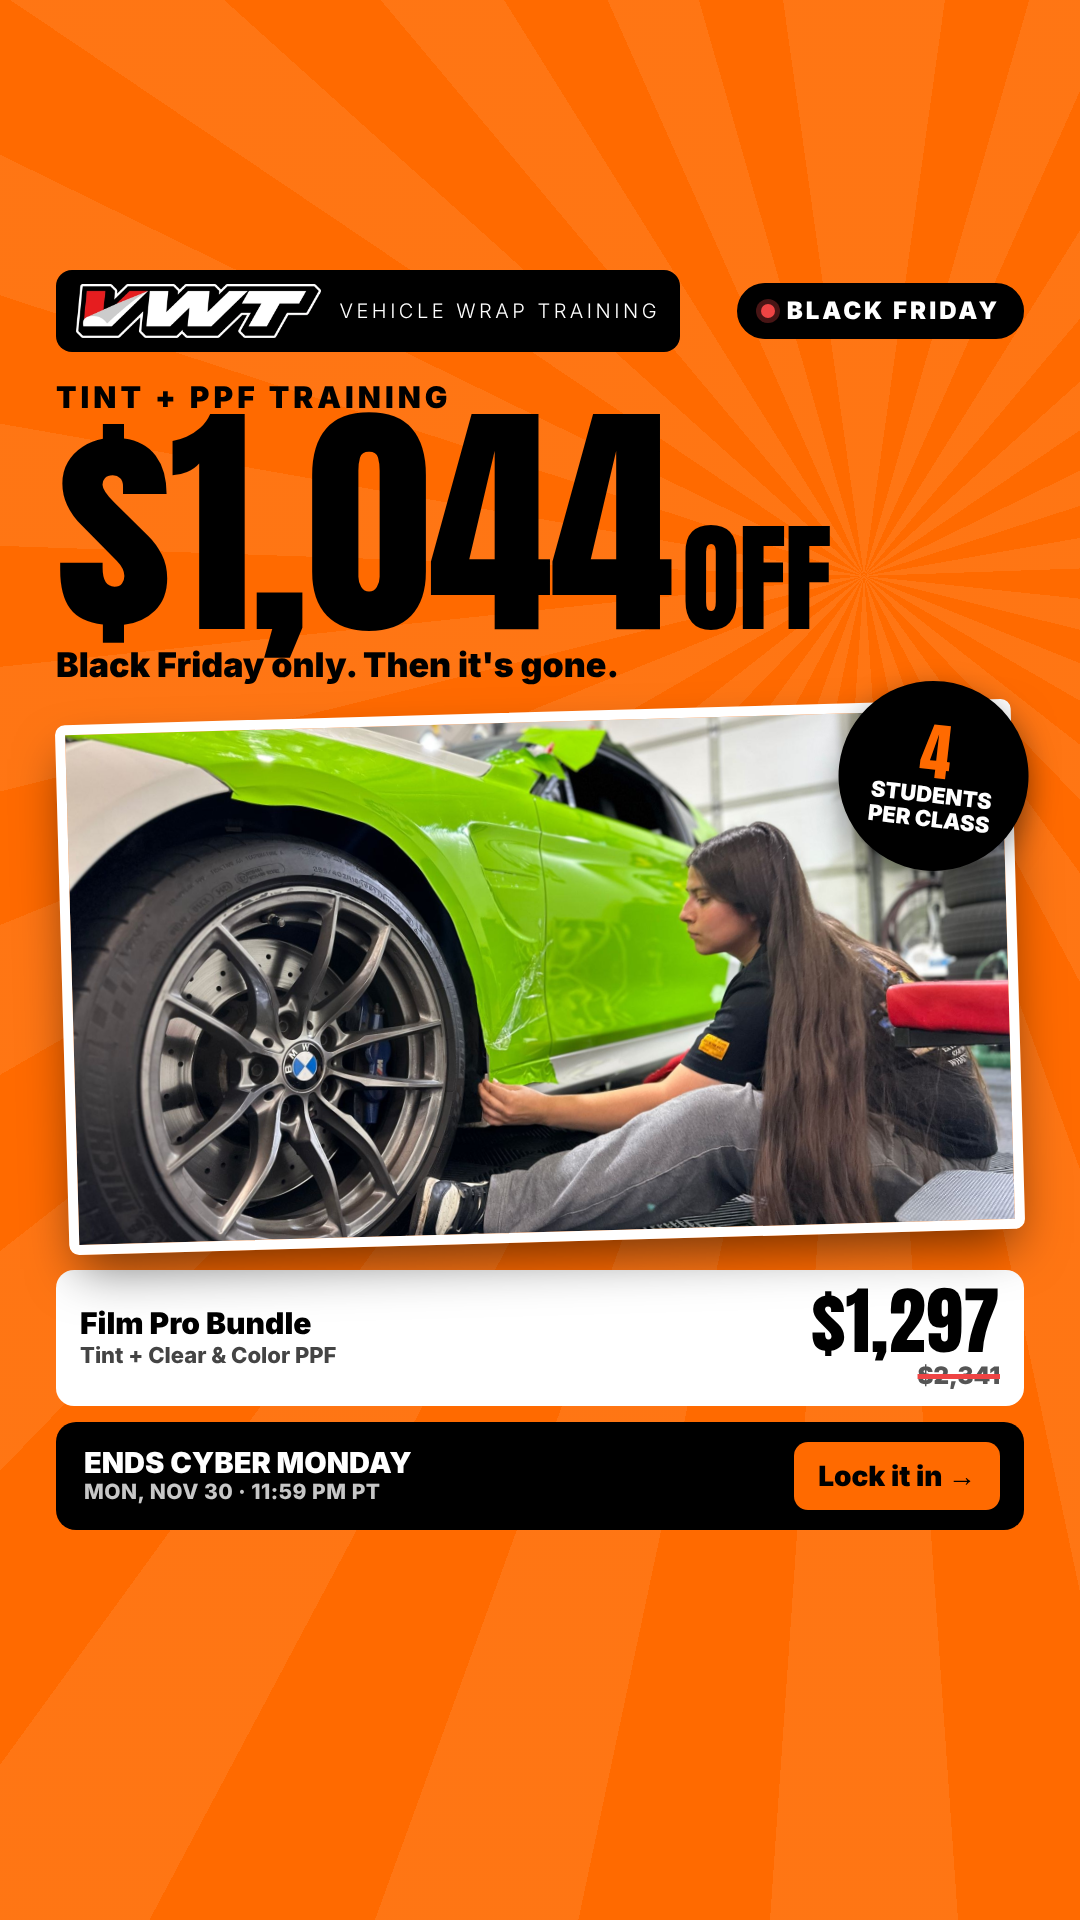
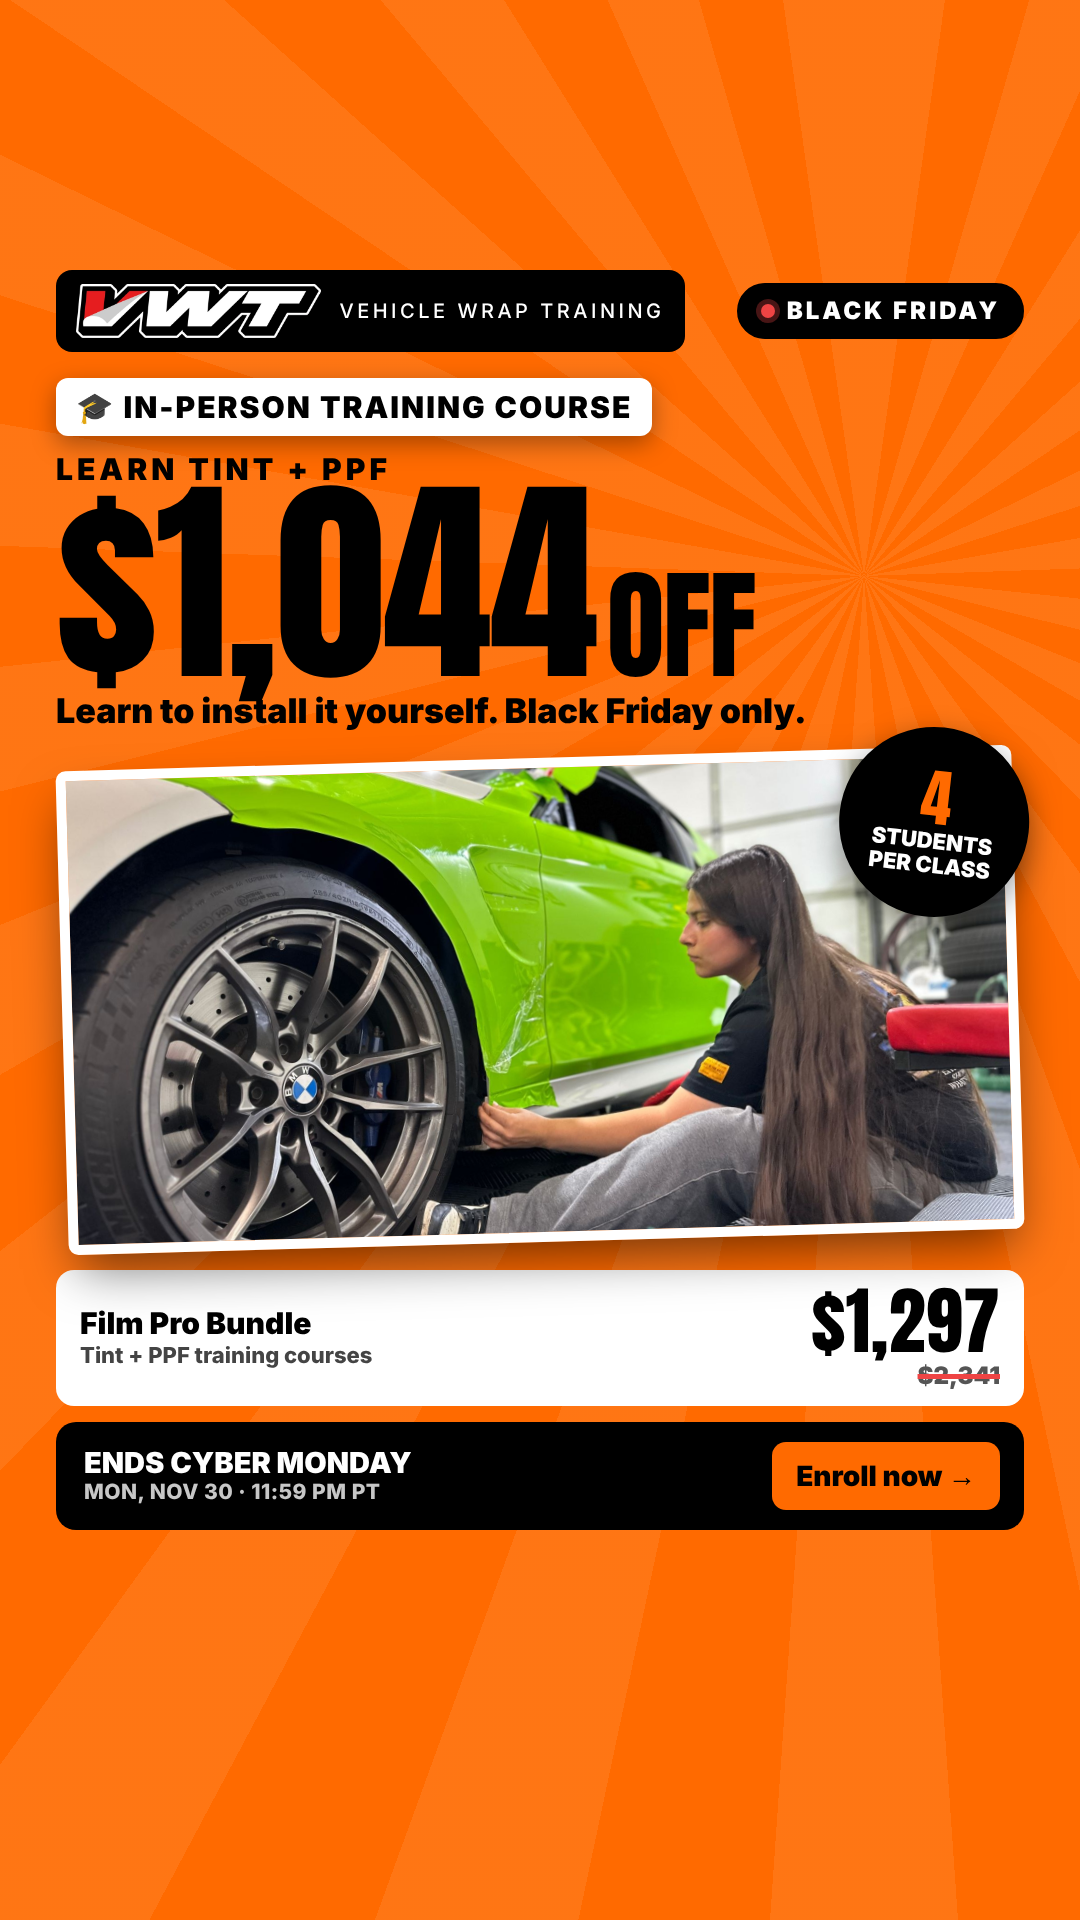
Ads: make it clear these are in-person training courses; bolder wordmark
Claude-Session: https://claude.ai/code/session_01DTKvV1fAQqsJqB6peNHdGx

Changed region(s): [[0.0306, 0.1562, 0.9778, 0.6562], [0.1528, 0.6875, 0.3361, 0.7188], [0.7028, 0.75, 0.8556, 0.7812]]

diff --git a/ads/src/ad2.html b/ads/src/ad2.html
@@ -1,7 +1,7 @@
 <!doctype html>
 <html><head><meta charset="utf-8">
 <!-- Black Friday Instagram ads, set 2. Open with ?ad=1..6&fmt=feed|story (&last=1 for the Nov 30 "ends tonight" version) and screenshot the .ad frame. -->
-<link href="https://fonts.googleapis.com/css2?family=Anton&family=Inter:wght@300;600;800;900&display=swap" rel="stylesheet">
+<link href="https://fonts.googleapis.com/css2?family=Anton&family=Inter:wght@300;500;600;800;900&display=swap" rel="stylesheet">
 <style>
 :root{--o:#ff6a00;--o2:#ff9a3c;--g:#22c55e;--gold:#ffc44d;--r:#ef4444;--bg:#0d0d0f;--muted:#c4c4cc}
 *{box-sizing:border-box;margin:0;padding:0}
@@ -28,7 +28,8 @@ s{text-decoration-color:var(--r);text-decoration-thickness:5px}
 .bar.red{background:var(--r);color:#fff}.bar.red .cta{background:#fff;color:#000}
 /* 1: pro map */
 .a1 .layer{background:linear-gradient(180deg,rgba(0,0,0,.55) 0%,rgba(0,0,0,0) 22%,rgba(0,0,0,0) 46%,rgba(0,0,0,.85) 66%,#000 100%)}
-.a1 h1{margin-top:34px;font-size:118px}
+.a1 h1{font-size:118px}
+.a1 .stack>div:nth-child(2){margin-top:30px}
 .a1 h1 span{display:inline-block;background:#000;padding:10px 20px 4px;margin-bottom:8px}
 .a1 h1 .o{color:var(--o)}
 .a1 .card{background:rgba(16,16,19,.94);border:2px solid rgba(255,255,255,.14);border-radius:22px;padding:24px 28px;margin-bottom:20px}
@@ -77,8 +78,8 @@ s{text-decoration-color:var(--r);text-decoration-thickness:5px}
 /* 4: big number on orange */
 .a4{background:var(--o);color:#000}
 .a4 .burst{position:absolute;inset:0;background:repeating-conic-gradient(from 0deg at 80% 30%,rgba(255,255,255,.08) 0deg 8deg,rgba(255,255,255,0) 8deg 16deg)}
-.a4 .k{font:900 30px/1 Inter;letter-spacing:4px;text-transform:uppercase;margin:30px 0 4px}
-.a4 .big{font-size:250px;line-height:.86;letter-spacing:-2px}
+.a4 .k{font:900 30px/1 Inter;letter-spacing:4px;text-transform:uppercase;margin:18px 0 4px}
+.a4 .big{font-size:220px;line-height:.86;letter-spacing:-2px}
 .a4 .big small{font-size:120px;margin-left:10px}
 .a4 .sub{font:900 34px/1.2 Inter;margin:14px 0 26px}
 .a4 .frame{position:relative;flex:1;min-height:0;border:10px solid #fff;border-radius:10px;background-size:cover;background-position:var(--pos);transform:rotate(-1.6deg);box-shadow:0 24px 50px -10px rgba(0,0,0,.55);margin:0 6px 28px}
@@ -93,7 +94,7 @@ s{text-decoration-color:var(--r);text-decoration-thickness:5px}
 /* 5: four seats */
 .a5 .photo{position:absolute;left:0;right:0;top:0;height:var(--ph);background-size:cover;background-position:var(--pos)}
 .a5 .photo::after{content:"";position:absolute;inset:0;background:linear-gradient(180deg,rgba(0,0,0,.5) 0%,rgba(0,0,0,0) 25%,rgba(0,0,0,.1) 55%,var(--bg) 100%)}
-.a5 h1{font-size:128px;margin-bottom:22px}
+.a5 h1{font-size:108px;margin-bottom:22px}
 .a5 h1 .o{color:var(--o)}
 .seats{display:grid;grid-template-columns:repeat(4,1fr);gap:14px;margin-bottom:22px}
 .seat{background:#18181c;border:2px solid var(--o);border-radius:18px;padding:16px 0 12px;text-align:center}
@@ -122,8 +123,9 @@ s{text-decoration-color:var(--r);text-decoration-thickness:5px}
 .a6 .li span b{font-family:Anton;font-weight:400;font-size:52px;color:#ffc400;margin-left:12px}
 .a6 .li s{font:800 24px/1 Inter;color:#9a9aa3;text-decoration-thickness:3px}
 .brand{display:inline-flex;align-items:center;gap:18px}
-.bname{font:300 20px/1 Inter,sans-serif;letter-spacing:3.5px;text-transform:uppercase;color:#fff;white-space:nowrap;text-shadow:0 0 8px rgba(0,0,0,.9),0 1px 3px rgba(0,0,0,.9)}
+.bname{font:500 20px/1 Inter,sans-serif;letter-spacing:3.5px;text-transform:uppercase;color:#fff;white-space:nowrap;text-shadow:0 0 8px rgba(0,0,0,.9),0 1px 3px rgba(0,0,0,.9)}
 .topfade{position:absolute;left:0;right:0;top:0;background:linear-gradient(180deg,rgba(0,0,0,.72),rgba(0,0,0,.45) 60%,rgba(0,0,0,0));pointer-events:none}
+.course{display:inline-flex;align-items:center;gap:10px;background:#fff;color:#000;font:900 30px/1 Inter,sans-serif;letter-spacing:2px;text-transform:uppercase;padding:14px 20px;border-radius:12px;margin-bottom:18px;box-shadow:0 8px 24px rgba(0,0,0,.35)}
 </style></head><body>
 <div id="root"></div>
 <script>
@@ -143,28 +145,30 @@ const T={
 // 1. The pro's panel map
 '1':()=>wrap(1,`<div class="bgimg" style="background-image:url(${img('layout-map-mercedes')});--pos:${S?'63% 50%':'58% 50%'}"></div><div class="layer"></div>
  <div class="stack">${TOPROW}
-  <h1 class="H"><span>This is how</span><br><span><i class="o" style="font-style:normal">pros</i> plan</span><br><span>every panel.</span></h1>
+  <div><span class="course">🎓 In-person training course</span></div>
+  <h1 class="H"><span>Learn how</span><br><span><i class="o" style="font-style:normal">pros</i> plan</span><br><span>every panel.</span></h1>
   <div class="grow"></div>
-  <div class="card"><p>Learn it hands-on from a <b>16-year pro</b>. Tint + PPF, max 4 students per class.</p>
+  <div class="card"><p>Tint + PPF training courses taught by a <b>16-year pro</b>. Max 4 students per class.</p>
    <div class="pr"><span class="now H">$1,297</span><span class="was">Reg. <s>$2,341</s></span><span class="save">Save $1,044</span></div></div>
   ${bar('Claim my seat')}
  </div>`),
 // 2. Black Friday pass (ticket)
 '2':()=>wrap(2,`<div class="photo" style="background-image:url(${img('ppf-two-students-vwt-wall')});--pos:${S?'40% 50%':'50% 45%'}"></div>
  <div class="stack">${TOPROW}<div class="grow"></div>
-  <h1 class="H">Your Black Friday<br><span class="o">pass is here.</span></h1>
+  <div><span class="course">🎓 In-person training course</span></div>
+  <h1 class="H">Your seat in class<br><span class="o">is 45% off.</span></h1>
   <div class="ticket"><div class="stub"><span>ADMIT ONE</span></div>
-   <div class="main"><div class="k">Film Pro Bundle</div><div class="n">Window Tint + Clear &amp; Color PPF</div>
+   <div class="main"><div class="k">Film Pro Bundle · 2 courses</div><div class="n">Window Tint + PPF Training</div>
     <div class="row"><span class="now H">$1,297</span><span class="was">Reg. <s>$2,341</s></span></div></div>
    <div class="off"><b>45%</b><small>OFF</small></div></div>
   <p class="fine"><b>Only 4 students per class.</b> Lock in the price now, train on any date through 2027.</p>
-  ${bar('Get my pass')}
+  ${bar('Save my seat')}
  </div>`,`--ph:${S?1150:760}px`),
 // 3. Tint in 2 days
 '3':()=>wrap(3,`<div class="bgimg" style="background-image:url(${img('tint-heat-shrink')});--pos:${S?'62% 50%':'60% 40%'}"></div><div class="layer"></div>
  <div class="ribbon" style="--rt:${S?PT+190:230}px">SAVE $398</div>
  <div class="stack">${TOPROW}<div class="grow"></div>
-  <div><span class="kick">2-Day Window Tint Course</span></div>
+  <div><span class="course">🎓 2-day in-person tint course</span></div>
   <h1 class="H">Learn tint<br>in <span class="o">2 days.</span></h1>
   <div class="pr"><span class="now H">$497</span><span class="was">Reg. <s>$895</s><b>Black Friday price</b></span></div>
   <div class="checks"><span>Hands-on, real cars</span><span>Max 4 students</span><span>16-year pro</span></div>
@@ -173,37 +177,40 @@ const T={
 // 4. Big number, orange
 '4':()=>wrap(4,`<div class="burst"></div>
  <div class="stack"><div class="toprow"><span class="logo-pill brand"><img class="logo" src="${L}" alt="VWT"><span class="bname" style="text-shadow:none">Vehicle Wrap Training</span></span><span class="tag" style="border-color:#000"><i></i>${LAST?'Last day':'Black Friday'}</span></div>
-  <div class="k">Tint + PPF training</div>
+  <div><span class="course" style="margin:26px 0 0">🎓 In-person training course</span></div>
+  <div class="k">Learn tint + PPF</div>
   <div class="big H">$1,044<small>off</small></div>
-  <div class="sub">Black Friday only. Then it's gone.</div>
+  <div class="sub">Learn to install it yourself. Black Friday only.</div>
   <div class="frame" style="background-image:url(${img('student-green-bmw-fender')});--pos:${S?'62% 50%':'60% 50%'}"><div class="stk"><b>4</b>students<br>per class</div></div>
-  <div class="deal"><div class="n">Film Pro Bundle<small>Tint + Clear &amp; Color PPF</small></div><div class="p"><b class="H">$1,297</b><s>$2,341</s></div></div>
-  ${bar('Lock it in','inv')}
+  <div class="deal"><div class="n">Film Pro Bundle<small>Tint + PPF training courses</small></div><div class="p"><b class="H">$1,297</b><s>$2,341</s></div></div>
+  ${bar('Enroll now','inv')}
  </div>`),
 // 5. Four seats
 '5':()=>{const chair='<svg viewBox="0 0 24 24"><path d="M7 3h10a1 1 0 011 1v7H6V4a1 1 0 011-1zm-3 9h16a1 1 0 011 1v2a1 1 0 01-1 1h-1v5h-2v-5H7v5H5v-5H4a1 1 0 01-1-1v-2a1 1 0 011-1z"/></svg>';
  return wrap(5,`<div class="photo" style="background-image:url(${img('instructor-green-bmw-quarter')});--pos:${S?'38% 50%':'50% 40%'}"></div>
  <div class="stack">${TOPROW}<div class="grow"></div>
-  <h1 class="H">4 seats.<br><span class="o">That's it.</span></h1>
+  <div><span class="course">🎓 In-person training course</span></div>
+  <h1 class="H">4 seats per class.<br><span class="o">That's it.</span></h1>
   <div class="seats">${[1,2,3,4].map(i=>`<div class="seat">${chair}<div>SEAT ${i}</div></div>`).join('')}</div>
   <p class="copy">Every class is capped at 4 students, so you get <b>real one-on-one time</b> with a 16-year pro.</p>
-  <div class="prices"><div><small>Tint · 2 days</small><b>$497</b><s>$895</s></div><div><small>PPF · 3 days</small><b>$997</b><s>$1,446</s></div><div class="best"><small>Bundle · both</small><b>$1,297</b></div></div>
+  <div class="prices"><div><small>Tint course · 2 days</small><b>$497</b><s>$895</s></div><div><small>PPF course · 3 days</small><b>$997</b><s>$1,446</s></div><div class="best"><small>Both courses</small><b>$1,297</b></div></div>
   ${bar('Grab a seat')}
  </div>`,`--ph:${S?1100:720}px`)},
 // 6. Last call
 '6':()=>wrap(6,`<div class="bgimg" style="background-image:url(${img('student-green-bmw-fender')});--pos:${S?'60% 50%':'55% 50%'}"></div><div class="layer"></div>
  <div class="stack">${TOPROW}
   <div class="grow"></div>
+  <div><span class="course">🎓 In-person training course</span></div>
   <div class="tape t1"></div>
   <h1 class="H">${LAST?'Last <span class="y">day.</span>':'Don\'t miss<br><span class="y">this.</span>'}</h1>
   <div class="tape t2"></div>
-  <p class="copy">Black Friday prices end <b>${LAST?'tonight at 11:59 PM PT':'Monday, Nov 30 at 11:59 PM PT'}</b>. After that, prices go back up.</p>
+  <p class="copy">Black Friday prices on our hands-on training courses end <b>${LAST?'tonight at 11:59 PM PT':'Monday, Nov 30 at 11:59 PM PT'}</b>. After that, prices go back up.</p>
   <div class="list">
-   <div class="li">Window Tint<span><s>$895</s><b>$497</b></span></div>
-   <div class="li">Clear &amp; Color PPF<span><s>$1,446</s><b>$997</b></span></div>
-   <div class="li">Tint + PPF Bundle<span><s>$2,341</s><b>$1,297</b></span></div>
+   <div class="li">Window Tint Course<span><s>$895</s><b>$497</b></span></div>
+   <div class="li">Clear &amp; Color PPF Course<span><s>$1,446</s><b>$997</b></span></div>
+   <div class="li">Tint + PPF Course Bundle<span><s>$2,341</s><b>$1,297</b></span></div>
   </div>
-  ${bar(LAST?'Book before midnight':'Book now','red')}
+  ${bar(LAST?'Enroll before midnight':'Enroll now','red')}
  </div>`)
 };
 document.getElementById('root').innerHTML=T[ad]();

diff --git a/ads/src/ad.html b/ads/src/ad.html
@@ -1,6 +1,6 @@
 <!doctype html>
 <html><head><meta charset="utf-8">
-<link href="https://fonts.googleapis.com/css2?family=Anton&family=Inter:wght@300;600;800;900&display=swap" rel="stylesheet">
+<link href="https://fonts.googleapis.com/css2?family=Anton&family=Inter:wght@300;500;600;800;900&display=swap" rel="stylesheet">
 <style>
 :root{--orange:#ff6a00;--orange2:#ff9a3c;--green:#22c55e;--gold:#ffc44d;--red:#ef4444;--bg:#0d0d0f}
 *{box-sizing:border-box;margin:0;padding:0}
@@ -73,8 +73,9 @@ s{text-decoration-color:var(--red);text-decoration-thickness:4px}
 .a3 .deal .t{font:900 30px/1.2 Inter;text-transform:uppercase}
 .a3 .deal .t small{display:block;font:800 24px/1.3 Inter;text-transform:none;color:#b4b4bd}
 .brand{display:inline-flex;align-items:center;gap:18px}
-.bname{font:300 20px/1 Inter,sans-serif;letter-spacing:3.5px;text-transform:uppercase;color:#fff;white-space:nowrap;text-shadow:0 0 8px rgba(0,0,0,.9),0 1px 3px rgba(0,0,0,.9)}
+.bname{font:500 20px/1 Inter,sans-serif;letter-spacing:3.5px;text-transform:uppercase;color:#fff;white-space:nowrap;text-shadow:0 0 8px rgba(0,0,0,.9),0 1px 3px rgba(0,0,0,.9)}
 .topfade{position:absolute;left:0;right:0;top:0;background:linear-gradient(180deg,rgba(0,0,0,.72),rgba(0,0,0,.45) 60%,rgba(0,0,0,0));pointer-events:none}
+.course{display:inline-flex;align-items:center;gap:10px;background:#fff;color:#000;font:900 30px/1 Inter,sans-serif;letter-spacing:2px;text-transform:uppercase;padding:14px 20px;border-radius:12px;margin-bottom:18px;box-shadow:0 8px 24px rgba(0,0,0,.35)}
 </style></head><body>
 <div id="root"></div>
 <script>
@@ -91,21 +92,23 @@ const T={
   <div class="top">${logo}${tag}</div>
   <div class="giant H">45%<small>OFF</small></div>
   <div class="body">
+    <div><span class="course">🎓 In-person training course</span></div>
     <h1 class="H">Learn Tint <span class="hl">+</span> PPF<br>from a <span class="hl">16-year pro</span></h1>
-    <div class="price"><div class="l"><div class="kick">Film Pro Bundle · Tint + PPF</div><div class="now H">$1,297</div><div class="reg">Reg. <s>$2,341</s></div></div>
+    <div class="price"><div class="l"><div class="kick">Film Pro Bundle · Tint + PPF courses</div><div class="now H">$1,297</div><div class="reg">Reg. <s>$2,341</s></div></div>
       <div class="save"><small>You save</small><b>$1,044</b></div></div>
-    <div class="chips"><span class="chip">👥 Only <b>4 students</b> per class</span><span class="chip">🔥 Hands-on</span><span class="chip">📍 San Leandro, CA</span></div>
+    <div class="chips"><span class="chip">👥 Only <b>4 students</b> per class</span><span class="chip">🔥 Hands-on class</span><span class="chip">📍 San Leandro, CA</span></div>
     ${bar('Claim my seat')}
   </div></div>`,
 '2':()=>`<div class="ad ${fmt} a2" style="--top:${TOP}px;--bot:${BOT}px">
   <div class="photo" style="background-image:url(img/${S?'stretching-portrait':'maserati'}.jpg);--pos:${S?'50% 20%':'50% 35%'}"></div><div class="shade"></div>
   <div class="top">${logo}${tag}</div>
   <div class="body">
+    <div><span class="course">🎓 In-person training course</span></div>
     <h1 class="H">Black Friday<br><span class="hl">course sale</span></h1>
     <p class="lead">Hands-on tint &amp; PPF training. Max 4 students per class.</p>
-    <div class="row"><div class="n">Window Tint<small>2-day course</small></div><div class="p"><b class="H">$497</b><s>$895</s></div></div>
-    <div class="row"><div class="n">Clear &amp; Color PPF<small>3-day course</small></div><div class="p"><b class="H">$997</b><s>$1,446</s></div></div>
-    <div class="row best"><div class="n">Film Pro Bundle<span class="badge">BEST VALUE</span><small>Tint + PPF · save $1,044</small></div><div class="p"><b class="H">$1,297</b><s>$2,341</s></div></div>
+    <div class="row"><div class="n">Window Tint Course<small>2 days, hands-on</small></div><div class="p"><b class="H">$497</b><s>$895</s></div></div>
+    <div class="row"><div class="n">Clear &amp; Color PPF Course<small>3 days, hands-on</small></div><div class="p"><b class="H">$997</b><s>$1,446</s></div></div>
+    <div class="row best"><div class="n">Film Pro Bundle<span class="badge">BEST VALUE</span><small>Both courses · save $1,044</small></div><div class="p"><b class="H">$1,297</b><s>$2,341</s></div></div>
     <p class="note">Lock in the price now. <b>Use it on any class date through 2027.</b></p>
     ${bar('Pick my course')}
   </div></div>`,
@@ -114,10 +117,11 @@ const T={
   <div class="shade"></div>
   <div class="top">${logo}${tag}</div>
   <div class="body">
+    <div><span class="course">🎓 In-person training course</span></div>
     <h1 class="H">Your new skill<br>starts <span class="hl">here.</span></h1>
     <p class="lead">Learn <b>window tint &amp; PPF</b> hands-on from a 16-year pro. Only <b>4 students</b> per class, so you get real one-on-one time.</p>
     <div class="rev"><span class="stars">★★★★★</span> 41 Google reviews</div>
-    <div class="deal"><div class="pct">45%</div><div class="t">Off the Film Pro Bundle<small>$1,297 (reg. $2,341) · Tint from $497</small></div></div>
+    <div class="deal"><div class="pct">45%</div><div class="t">Off the Tint + PPF course bundle<small>$1,297 (reg. $2,341) · Tint course from $497</small></div></div>
     ${bar('Enroll now')}
   </div></div>`
 };

diff --git a/ads/set2/AD-COPY-SET2.md b/ads/set2/AD-COPY-SET2.md
@@ -4,15 +4,15 @@ Six styles, each in **Feed 4:5 (1080×1350)** and **Stories/Reels 9:16 (1080×19
 Prices match the landing page. The deal ends **Mon, Nov 30, 2026, 11:59 PM PT**.
 
 **Website URL:** your landing page with UTMs, e.g. `…/?utm_source=instagram&utm_medium=paid&utm_campaign=bf2026&utm_content=pass`. Change `utm_content` per ad so you can see which style wins.
-**Button:** `Book Now`
+**Button:** `Learn More` or `Book Now`. Every image now shows an **"In-person training course"** badge so nobody mistakes this for an install service.
 
 | # | Style | Best for |
 |---|---|---|
-| 1 | **Pro panel map**: "This is how pros plan every panel." | Scroll-stopper. Shows real expertise. |
-| 2 | **Black Friday pass**: an "Admit One" ticket | Makes the bundle feel exclusive. |
+| 1 | **Pro panel map**: "Learn how pros plan every panel." | Scroll-stopper. Shows real expertise. |
+| 2 | **Seat in class**: "Your seat in class is 45% off." with an "Admit One" ticket | Makes the bundle feel exclusive. |
 | 3 | **Tint in 2 days**: $497, "Save $398" ribbon | People who only want tint (lowest price). |
 | 4 | **$1,044 off**: bright orange, big number | Stands out in a dark feed. Pure deal. |
-| 5 | **4 seats. That's it.** | Scarcity: small classes. |
+| 5 | **4 seats per class. That's it.** | Scarcity: small classes. |
 | 6 | **Don't miss this** / **Last day** (caution tape) | Retargeting site visitors; run "Last day" only on Nov 30. |
 
 ---
@@ -21,7 +21,7 @@ Prices match the landing page. The deal ends **Mon, Nov 30, 2026, 11:59 PM PT**.
 **Primary text**
 > Every line on this fender is a plan. That's how pros wrap without wasting film or leaving seams where they don't belong. 📐
 >
-> Learn it hands-on at VWT in San Leandro. Tint + PPF, taught by a 16-year pro, max 4 students per class.
+> Learn it in person at our training center in San Leandro. This is a hands-on course where YOU learn to install. Tint + PPF, taught by a 16-year pro, max 4 students per class.
 >
 > 🔥 Black Friday: $1,297 (reg. $2,341). You save $1,044.
 > ⏰ Ends Cyber Monday at 11:59 PM PT.
@@ -29,9 +29,11 @@ Prices match the landing page. The deal ends **Mon, Nov 30, 2026, 11:59 PM PT**.
 **Headline:** Learn Tint + PPF: Save $1,044
 **Description:** Max 4 students · Ends Cyber Monday
 
-### 2 · Black Friday pass
+### 2 · Seat in class
 **Primary text**
-> 🎟 Your Black Friday pass is here.
+> 🎟 Your seat in class is 45% off.
+>
+> This is an in-person training course: you learn to install window tint and PPF yourself, hands-on.
 >
 > The Film Pro Bundle gets you BOTH courses: 2-Day Window Tint + 3-Day Clear & Color PPF. Normally $2,341. This week only: $1,297.
 >
@@ -46,7 +48,7 @@ Prices match the landing page. The deal ends **Mon, Nov 30, 2026, 11:59 PM PT**.
 
 ### 3 · Tint in 2 days
 **Primary text**
-> Learn window tint in 2 days. 🔥
+> Learn window tint in 2 days. 🔥 In-person training course in San Leandro.
 >
 > Hands-on on real cars, not just slides. Max 4 students, so the instructor is right next to you the whole time.
 >
@@ -58,7 +60,7 @@ Prices match the landing page. The deal ends **Mon, Nov 30, 2026, 11:59 PM PT**.
 
 ### 4 · $1,044 off
 **Primary text**
-> $1,044 off. Not a typo. 🧡
+> $1,044 off. Not a typo. 🧡 This is a hands-on training course, not an install service: you learn to do the work yourself.
 >
 > Learn tint AND PPF from a 16-year pro in San Leandro. Film Pro Bundle: $1,297 (reg. $2,341).
 >
@@ -87,7 +89,7 @@ Prices match the landing page. The deal ends **Mon, Nov 30, 2026, 11:59 PM PT**.
 
 ### 6 · Don't miss this (Nov 25–29)
 **Primary text**
-> 🚨 Black Friday prices end Monday at 11:59 PM PT. After that, they go back up.
+> 🚨 Black Friday prices on our hands-on training courses end Monday at 11:59 PM PT. After that, they go back up.
 >
 > • Window Tint: $497 (reg. $895)
 > • Clear & Color PPF: $997 (reg. $1,446)
